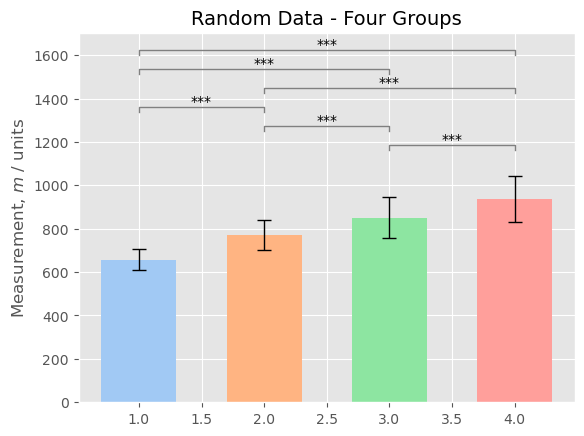
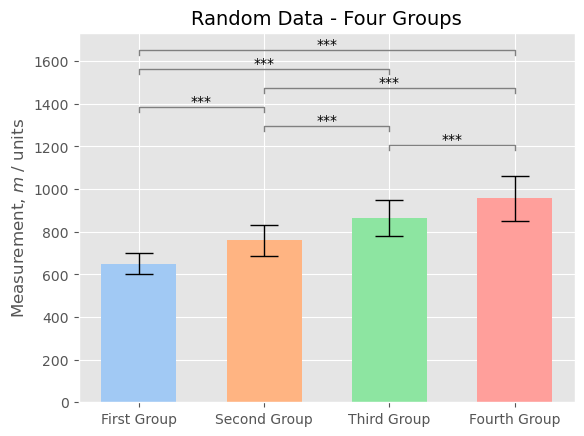
update barplot

diff --git a/Boxplot/bar_with_significance_stars.py b/Boxplot/bar_with_significance_stars.py
@@ -12,7 +12,7 @@ def bar_with_significance_stars(data, title, ylabel, xticklabels, figname='bar_w
     Create a bar-and-whisker plot with significance bars.
     """
     ax = plt.axes()
-    error_params = dict(elinewidth=1, ecolor='black', capsize=5)
+    error_params = dict(elinewidth=1, ecolor='black', capsize=10)
     colors = sns.color_palette('pastel')
 
     for i, (xlabel, d, color) in enumerate(zip(xticklabels, data, colors)):
@@ -23,6 +23,8 @@ def bar_with_significance_stars(data, title, ylabel, xticklabels, figname='bar_w
     ax.set_title(title, fontsize=14)
     # Label y-axis
     ax.set_ylabel(ylabel)
+
+    plt.xticks(np.arange(len(data)) + 1, xticklabels)
 
     # Check for statistical significance
     significant_combinations = []
